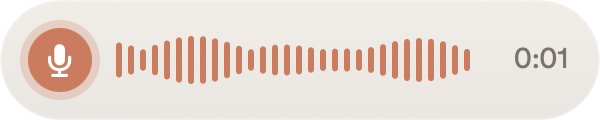
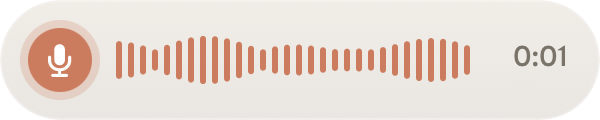
Titles and numbers in GT Ultra, text in Literata, UI in GT Standard L (version 3.16, 26 October 2026)

diff --git a/Sources/ZenRayDictate/ClaudeOverlay.swift b/Sources/ZenRayDictate/ClaudeOverlay.swift
@@ -38,10 +38,10 @@ final class ClaudeOverlay {
         static let clayDeep = NSColor(srgbRed: 184/255, green: 92/255, blue: 62/255, alpha: 1)
         static let ink = NSColor(srgbRed: 42/255, green: 38/255, blue: 34/255, alpha: 1)
         static let muted = NSColor(srgbRed: 124/255, green: 115/255, blue: 104/255, alpha: 1)
-        // 26 October 2026: default trio = Literata (read text), GT Standard L Bold (titles), GT Standard L Regular (UI and every number).
-        // The earlier drawings (GT Sectra, Anthropic Serif, Inter) stay valid alternatives: change these three names only.
-        // FR : trio par défaut ; les anciennes polices restent des alternatives, il suffit de changer ces trois noms.
-        static let titleFont = "GTStandard-LBold", textFont = "Literata-Regular", uiFont = "GTStandard-LRegular", numberFont = "GTStandard-LRegular"
+        // 26 October 2026: default fonts. Titles and every number = GT Ultra Regular, read text = Literata, the rest of the UI = GT Standard L.
+        // The earlier drawings (GT Sectra, Anthropic Serif, Inter) stay valid alternatives: change these four names only.
+        // FR : polices par défaut ; titres et nombres en GT Ultra, texte reçu en Literata, reste de l'interface en GT Standard L.
+        static let titleFont = "GTUltra-Regular", textFont = "Literata-Regular", uiFont = "GTStandard-LRegular", numberFont = "GTUltra-Regular"
     }
 
     var onInsert: (() -> Void)?

diff --git a/Scripts/MakeSheet.py b/Scripts/MakeSheet.py
@@ -22,12 +22,12 @@ PARAMS = {
     'title': 'ZenRay Dictate',
     'subtitle': 'Dictée par la voix : Fn, parle, le texte arrive',
     'tag': 'harmonic-asr-8',
-    # 26 October 2026: default trio = Literata (read text), GT Standard L Bold capitals (titles), GT Standard L Regular (UI).
+    # 26 October 2026: default fonts = GT Ultra Regular (titles and numbers, free case, no tracking imposed), Literata (read text), GT Standard L (the rest of the UI).
     # Alternatives stay valid: set font_title to GT-Sectra-LCGV-Regular.otf, font_ui to InterVariable.ttf, etc.
-    'font_title': '/Users/zenray/Library/Fonts/GT-Standard-L-Standard-Bold.otf', 'title_case': 'upper', 'title_track': 0.06,
+    'font_title': '/Users/zenray/Library/Fonts/GT-Ultra-Standard-Regular.otf', 'title_case': 'none', 'title_track': 0.0,
     'font_body': '/Users/zenray/Library/Fonts/Literata[opsz,wght].ttf', 'body_variation': 'Regular',
     'font_ui': '/Users/zenray/Library/Fonts/GT-Standard-L-Standard-Regular.otf', 'ui_variation': None,
-    'font_title_size': 84, 'font_subtitle_size': 38, 'font_label_size': 28, 'title_gap': 44,
+    'font_title_size': 100, 'font_subtitle_size': 38, 'font_label_size': 28, 'title_gap': 44,
     'margin': 90,
 }
 

diff --git a/README.md b/README.md
@@ -1,8 +1,8 @@
 ![ZenRay Dictate: the recording capsule on the right and the result card at the bottom, both in Claude orange](docs/ZenRayDictate-sheet.png)
 
-## 26 October 2026: Literata and GT Standard L by default (version 3.16)
+## 26 October 2026: GT Ultra, Literata and GT Standard L by default (version 3.16)
 
-The received text of the card is set in Literata, the timer and the buttons in GT Standard L Regular (numbers always GT Standard L), the titles of the presentation sheet in GT Standard L Bold capitals. They are the default trio; GT Sectra, Anthropic Serif and Inter stay valid alternatives. The three font names are `ClaudeOverlay.Tokens.titleFont`, `textFont`, `uiFont`, `numberFont`, and `build.sh` bundles the drawings. `Scripts/MakeSheet.py` carries the same trio in `PARAMS`. (26 October 2026)
+The received text of the card is set in Literata. Titles and every number (the timer, the title of the presentation sheet) are set in GT Ultra Regular, free case and no imposed letter spacing; the rest of the interface (buttons, labels) is GT Standard L Regular. They are the default fonts; GT Sectra, Anthropic Serif and Inter stay valid alternatives. The four font names are `ClaudeOverlay.Tokens.titleFont`, `textFont`, `uiFont`, `numberFont`, and `build.sh` bundles the drawings. `Scripts/MakeSheet.py` carries the same choice in `PARAMS`. (26 October 2026)
 
 ## 26 October 2026: red interface for the local Whisper, silence gate and new icon (version 3.15)
 
